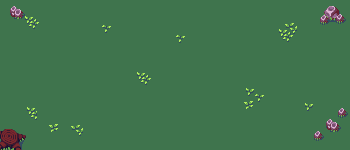
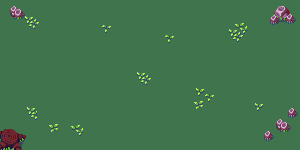
Scale map

diff --git a/public/client.js b/public/client.js
@@ -5,6 +5,11 @@ $(document).ready(() => {
   var commands = new Set()
   var id = ''
 
+  canvas.width  = 300;
+  canvas.height = 150; 
+  canvas.style.width  = '600px';
+  canvas.style.height = '300px';
+
   socket.on('initialize', (initialize) => {
     clearCanvas()
     id = initialize.id

diff --git a/public/theme.css b/public/theme.css
@@ -3,3 +3,8 @@
   border: 1px black solid;
   width: fit-content;
 }
+
+canvas {
+  background-image: url("assets/map.png");
+  background-size: cover;
+}
